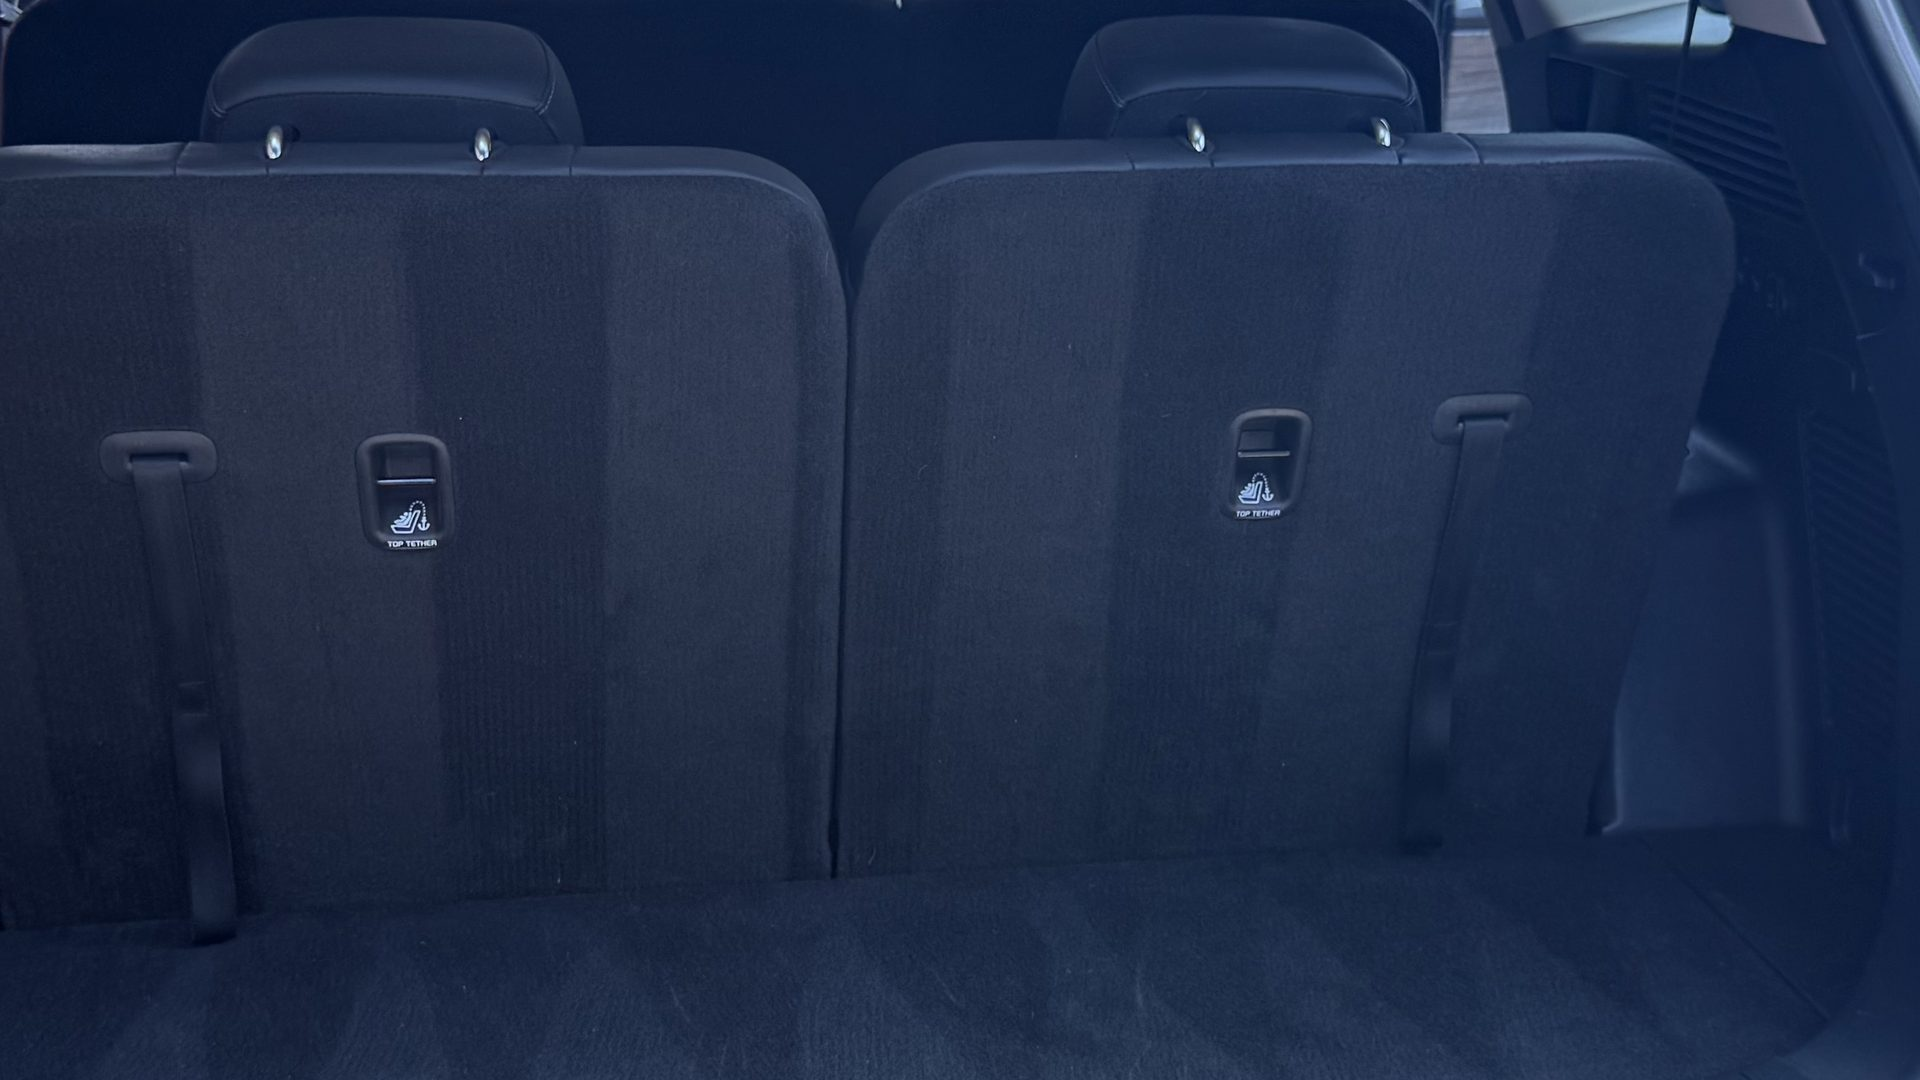
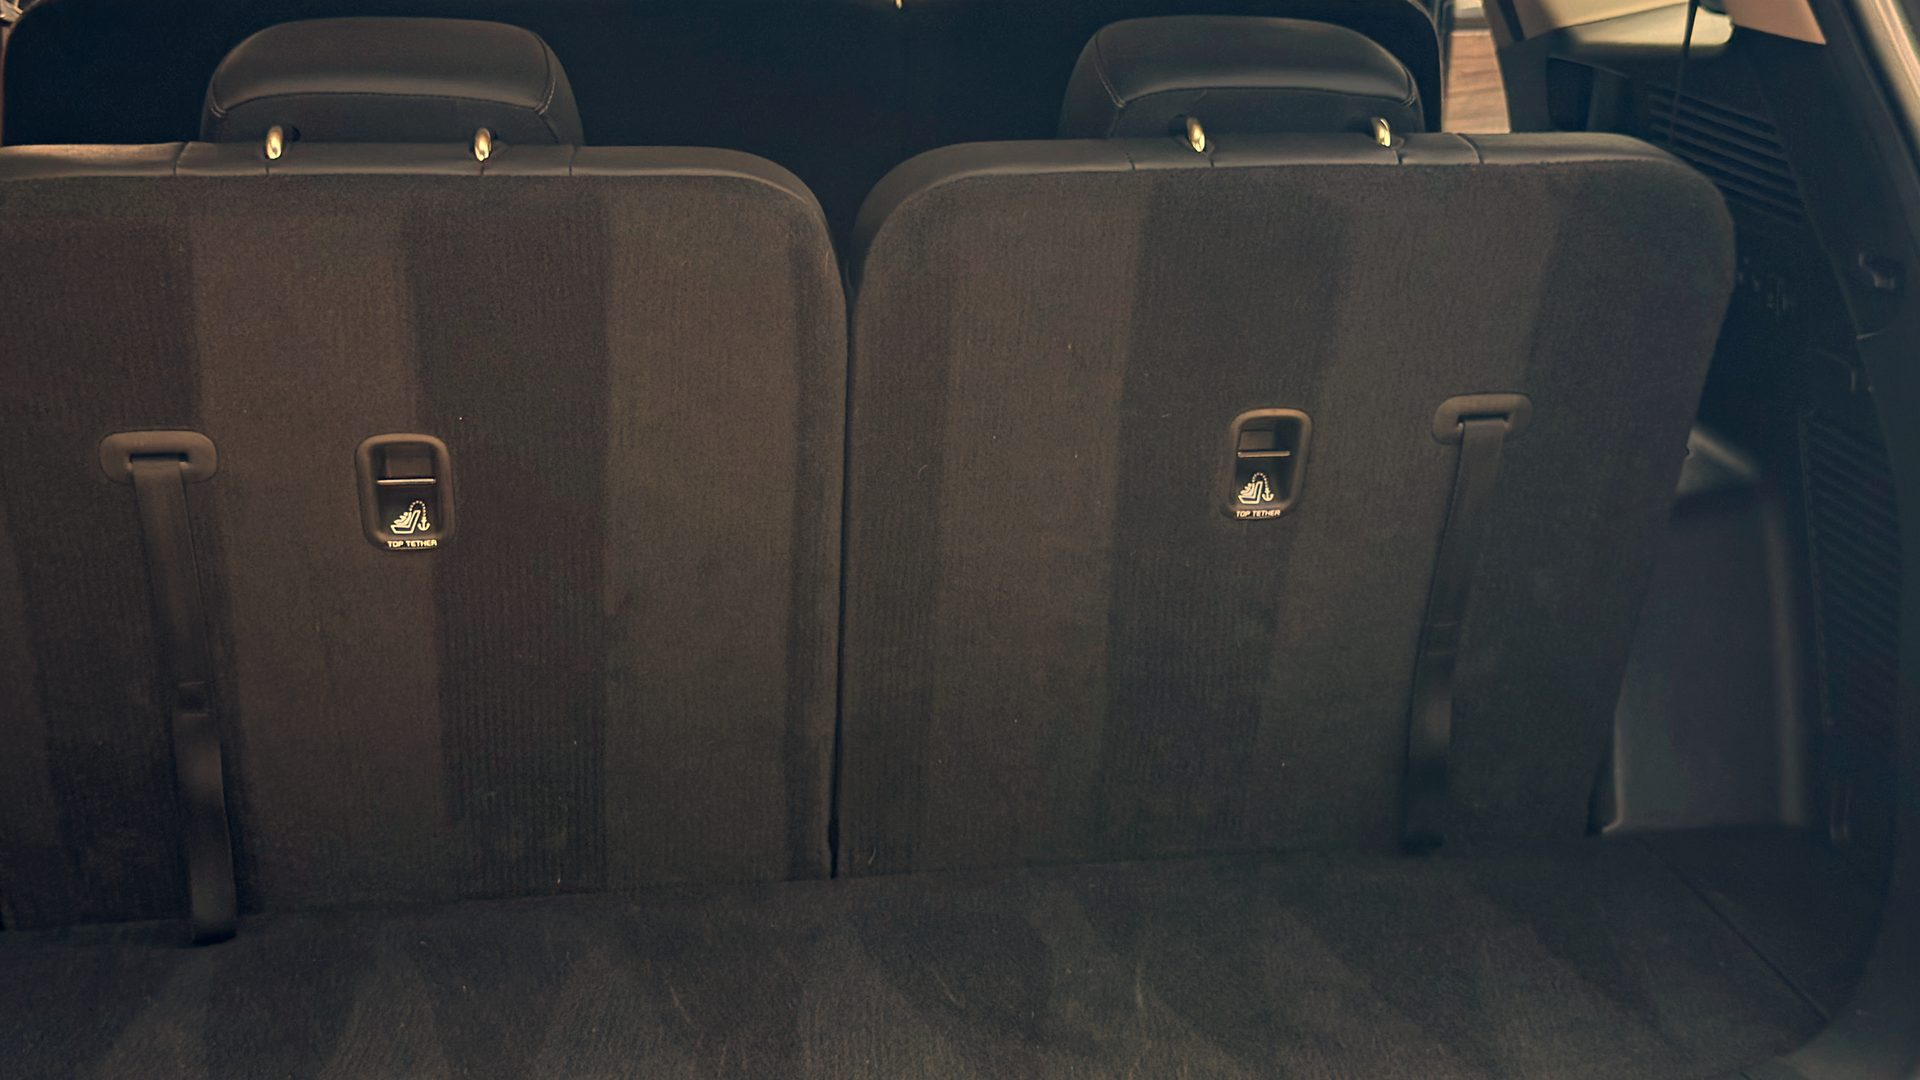
Add Gallery page; fix before/after blue tint
- New /gallery/ "Our Work" page (config-driven site.gallery): 7 curated
  shots across 5 vehicles, in the nav, sitemap, and with its own SEO
- White-balance the before/after to neutral (R=G=B) — the "after" had a
  blue cast from cool shooting light; now reads as dirty -> clean, not blue -> brown

diff --git a/site.config.ts b/site.config.ts
@@ -435,10 +435,50 @@ export const site = {
     detailOtherHeading: "Other services",
   },
 
+  /* --- Gallery / "Our work" page ---
+   * Add or swap shots by editing this list. Each image is shown in a 4:3 grid.
+   */
+  gallery: {
+    eyebrow: "Our work",
+    heading: "Real cars, real results.",
+    sub: "A look at recent details across Southeast Michigan — inside and out, cars, trucks, and SUVs. We come to you for every one of these.",
+    images: [
+      {
+        src: "/images/gallery/lexus.jpg",
+        alt: "A freshly detailed sage-green Lexus ES sedan gleaming in a driveway",
+      },
+      {
+        src: "/images/gallery/kia-front.jpg",
+        alt: "A clean, glossy dark-green Kia Sorento SUV after a full detail",
+      },
+      {
+        src: "/images/gallery/kia-side.jpg",
+        alt: "A detailed dark-green Kia Sorento with the door open, paint shining",
+      },
+      {
+        src: "/images/gallery/kia-foam.jpg",
+        alt: "A Kia Sorento covered in wash foam during an on-site exterior detail",
+      },
+      {
+        src: "/images/gallery/crv-interior.jpg",
+        alt: "Clean, conditioned black leather rear seats in a detailed Honda CR-V",
+      },
+      {
+        src: "/images/gallery/rav4.jpg",
+        alt: "A silver Toyota RAV4 being detailed on-site with the doors open",
+      },
+      {
+        src: "/images/gallery/chevy.jpg",
+        alt: "A white Chevrolet Trailblazer with the hatch and doors open during a detail",
+      },
+    ],
+  },
+
   /* --- Nav (top-level pages) --- */
   nav: [
     { label: "Home", href: "/" },
     { label: "Services", href: "/services/" },
+    { label: "Gallery", href: "/gallery/" },
     { label: "About", href: "/about/" },
     { label: "Get a quote", href: "/get-a-quote/" },
   ],
@@ -459,6 +499,12 @@ export const site = {
         title: "Detailing Services — Jaws Auto Detailing | Southeast Michigan",
         description:
           "All of our mobile detailing services: full details, interior cleaning, hand waxing, clay bar, engine bay, and full body washes. We come to you across Southeast Michigan.",
+      },
+      gallery: {
+        path: "/gallery/",
+        title: "Our Work — Jaws Auto Detailing | Mobile Detailing Gallery",
+        description:
+          "See recent mobile detailing work from Jaws Auto Detailing across Southeast Michigan — finished exteriors, clean interiors, and on-site details.",
       },
       about: {
         path: "/about/",

diff --git a/components/Gallery.tsx b/components/Gallery.tsx
@@ -1,0 +1,28 @@
+import Image from "next/image";
+import { site } from "@/site.config";
+
+/** Responsive 4:3 grid of finished-work photos (config: site.gallery.images). */
+export default function Gallery() {
+  return (
+    <section className="bg-ink py-16 text-bone sm:py-20">
+      <div className="container-page">
+        <div className="grid grid-cols-1 gap-4 sm:grid-cols-2 lg:grid-cols-3">
+          {site.gallery.images.map((img) => (
+            <div
+              key={img.src}
+              className="relative aspect-[4/3] overflow-hidden rounded-2xl border border-white/10"
+            >
+              <Image
+                src={img.src}
+                alt={img.alt}
+                fill
+                sizes="(min-width: 1024px) 33vw, (min-width: 640px) 50vw, 100vw"
+                className="object-cover transition-transform duration-500 hover:scale-[1.03]"
+              />
+            </div>
+          ))}
+        </div>
+      </div>
+    </section>
+  );
+}

diff --git a/app/gallery/page.tsx b/app/gallery/page.tsx
@@ -1,0 +1,23 @@
+import type { Metadata } from "next";
+import PageHeader from "@/components/PageHeader";
+import Gallery from "@/components/Gallery";
+import CtaBand from "@/components/CtaBand";
+import { site } from "@/site.config";
+import { pageMetadata } from "@/lib/seo";
+
+export const metadata: Metadata = pageMetadata("gallery");
+
+export default function GalleryPage() {
+  const { gallery } = site;
+  return (
+    <>
+      <PageHeader
+        eyebrow={gallery.eyebrow}
+        title={gallery.heading}
+        sub={gallery.sub}
+      />
+      <Gallery />
+      <CtaBand />
+    </>
+  );
+}